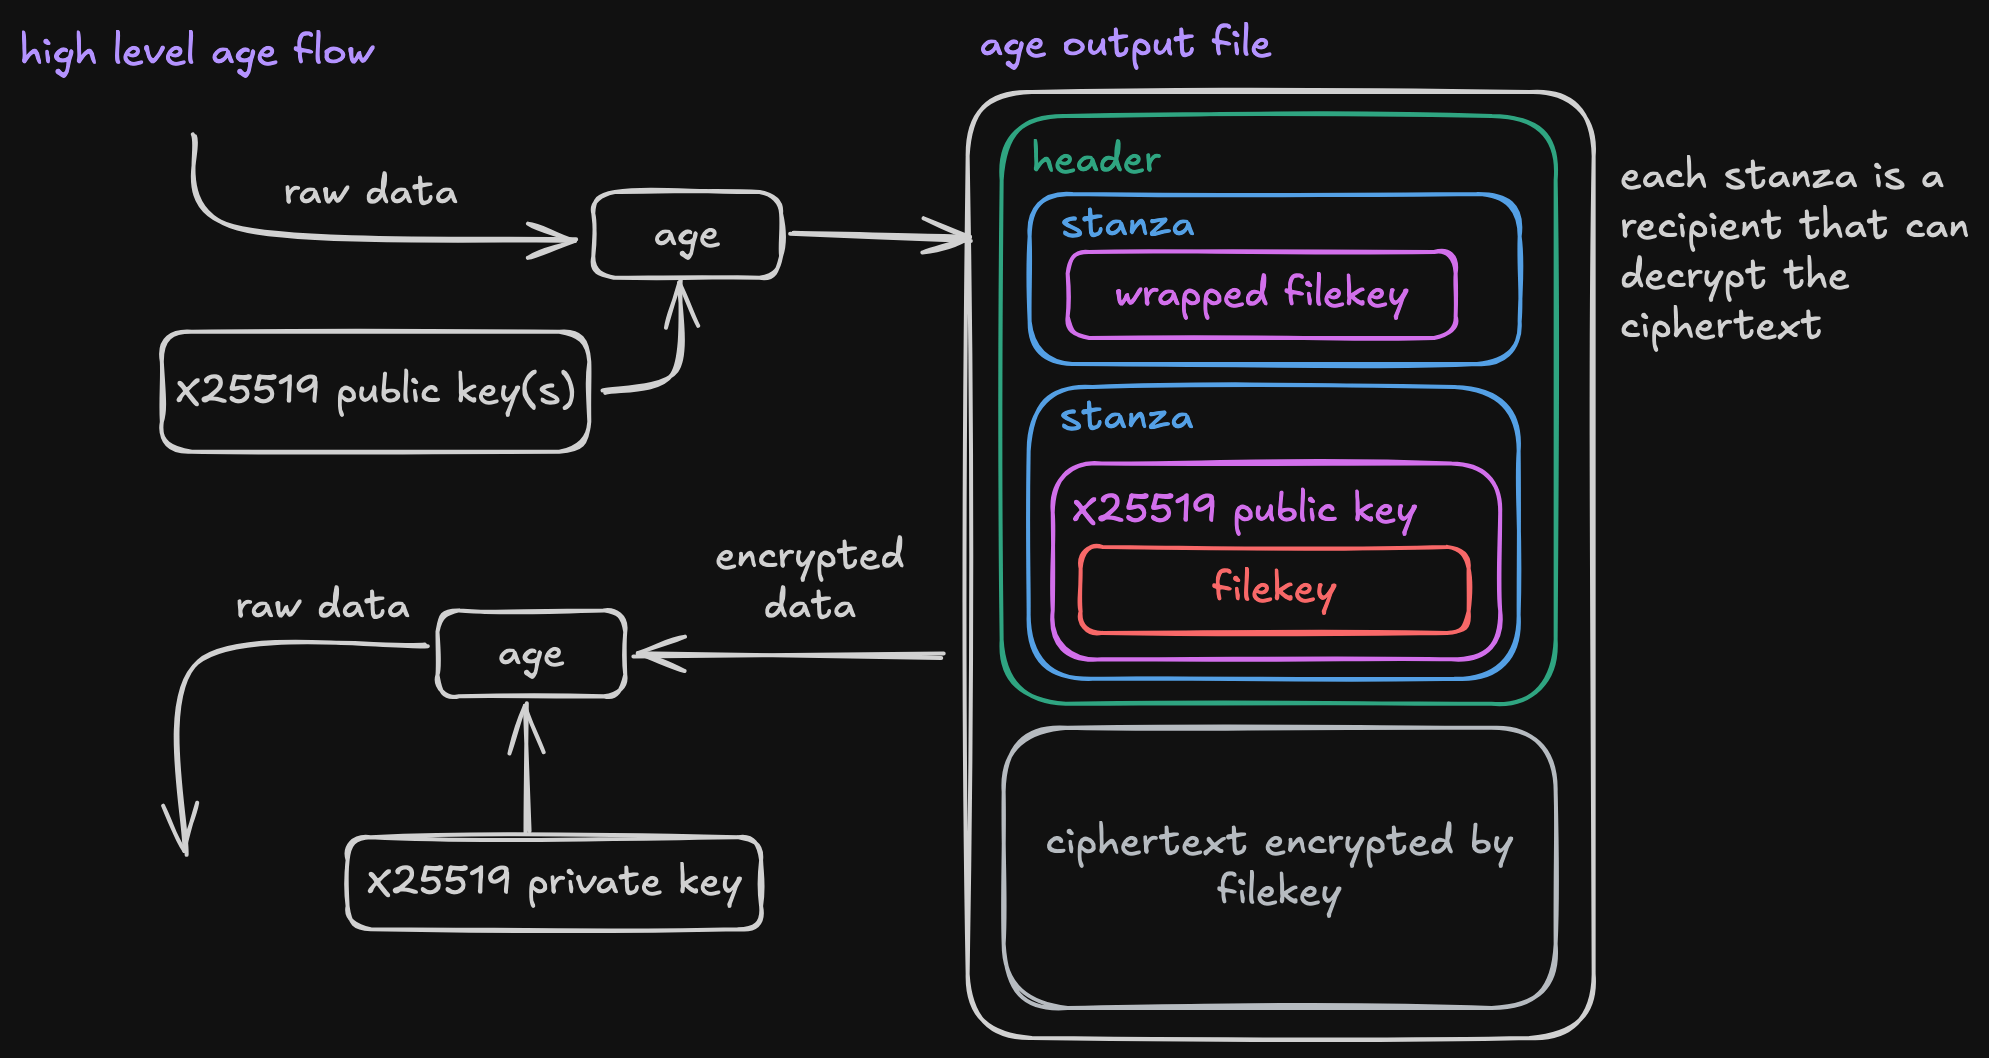
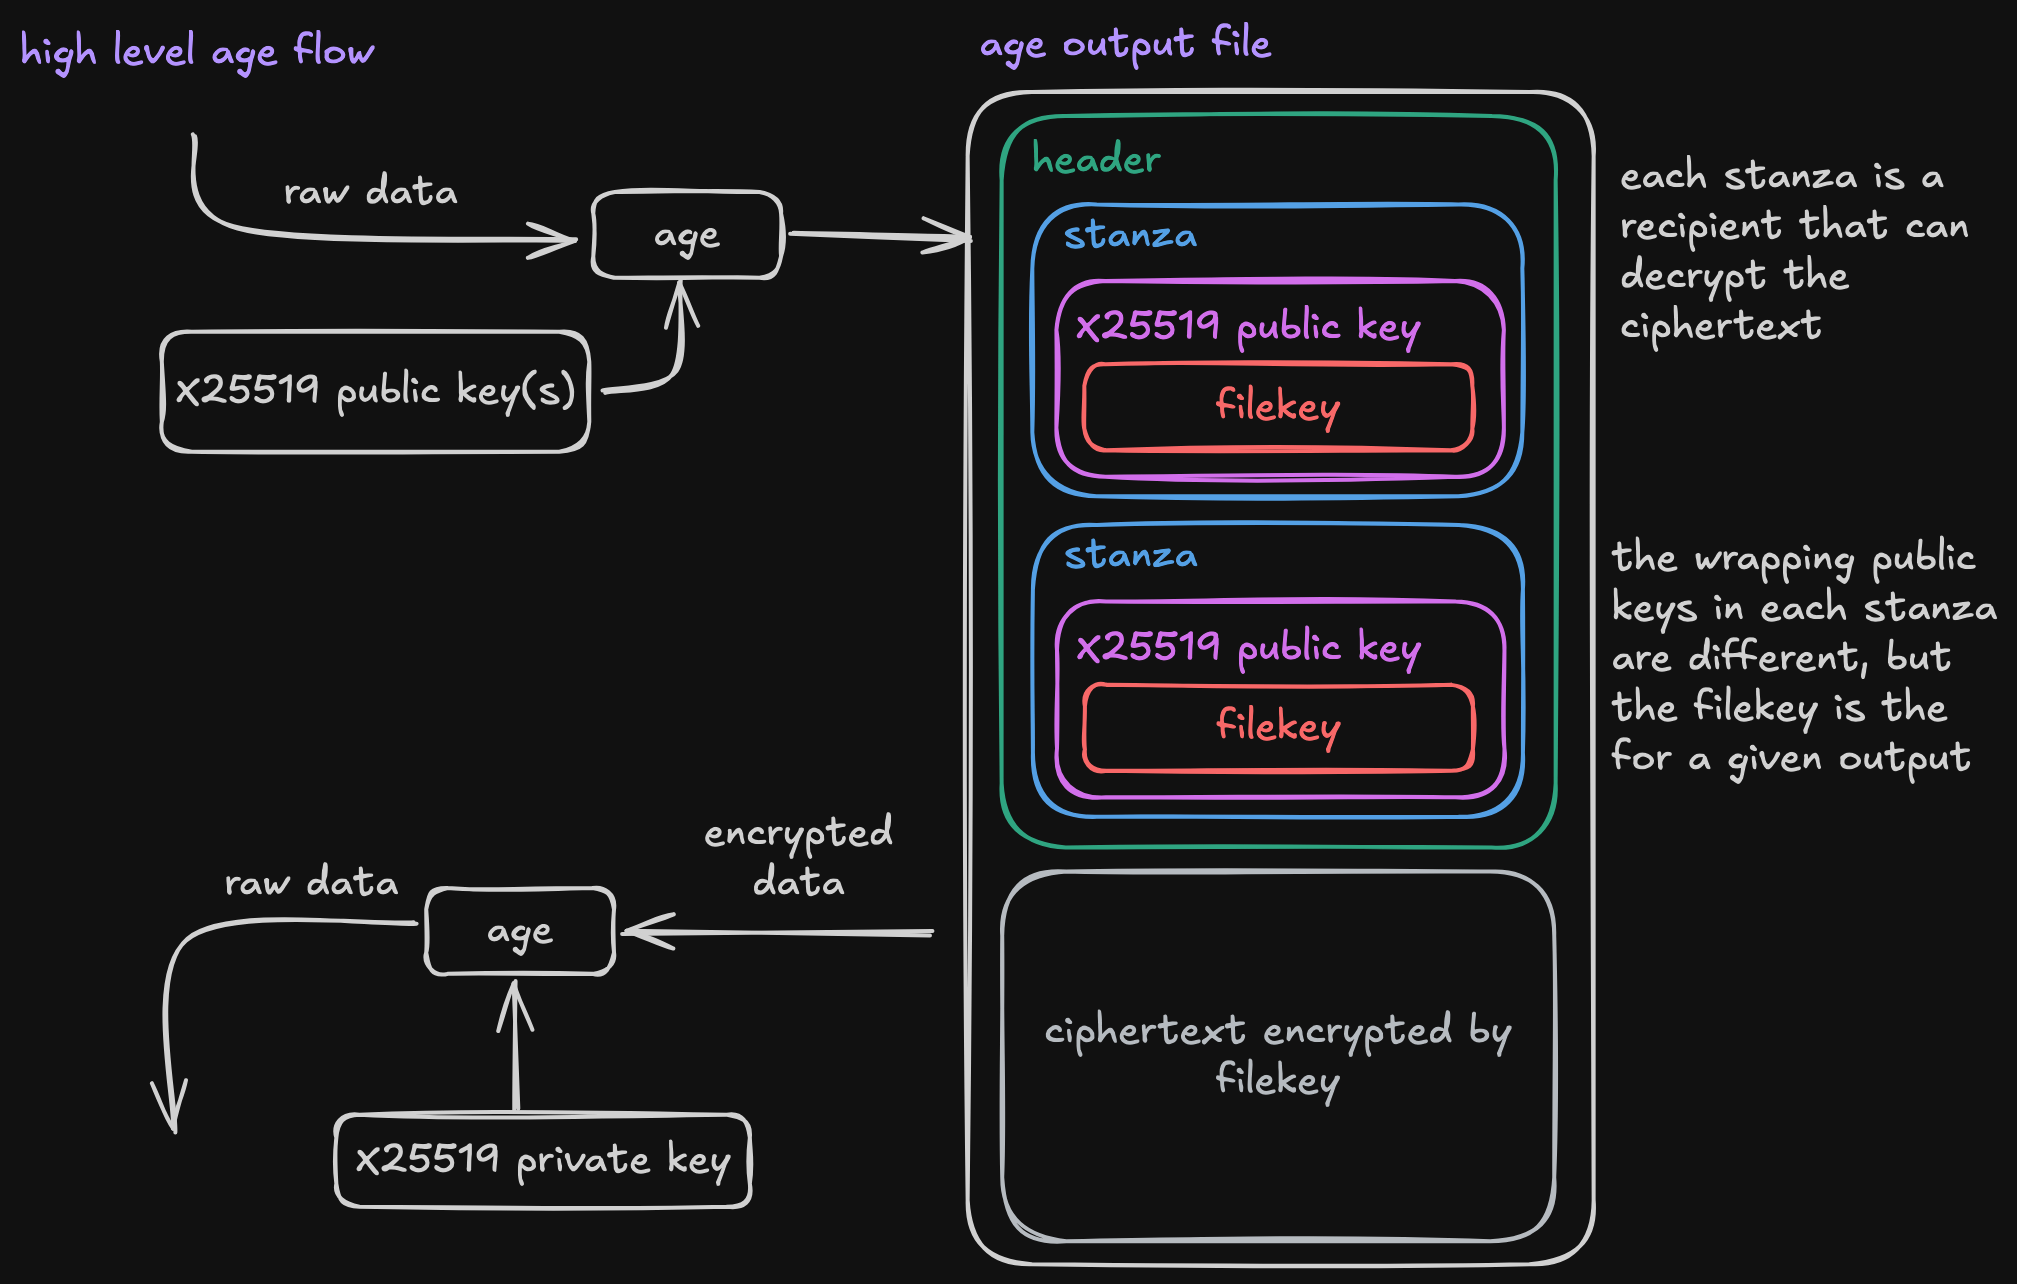
adding missing RPC for uploading encrypted .tar files to auth service, adjusting age diagram, mentioning UX changes in decryption section

Changed region(s): [[0.0623, 0.0, 0.9975, 0.9981], [0.0, 0.0312, 0.187, 0.0624]]

diff --git a/rfd/0127-encrypted-session-recordings.md b/rfd/0127-encrypted-session-recordings.md
@@ -42,7 +42,9 @@ defaults without requiring customization. The formal spec can be found
 [here](https://age-encryption.org/v1). Officially supported key algorithms are
 limited to X25519 (recommended by the spec), Ed25519, and RSA. Support for
 other algorithms would either have to be requested from the upstream or
-manually implemented as a custom plugin.
+manually implemented as a custom plugin. The algorithms employed by `age` are
+not currently compatible with FIPS, which means configuring encrypted sessions
+while in FIPS mode will result in failed startup.
 
 Below is a high level diagram showing how `age` encryption and decryption work:
 ![age diagram](assets/0127-age-high-level.png)
@@ -143,16 +145,49 @@ message SessionRecordingConfigV2 {
 ```proto
 // api/proto/teleport/clusterconfig/v1/clusterconfig_service.proto
 
+// existing messages omitted
+
+message RotateSessionRecordingConfigRequest {}
+message RotateSessionRecordingConfigResponse {}
+
 // ClusterConfigService provides methods to manage cluster configuration resources.
 service ClusterConfigService {
-  // existing messages and RPCs omitted
-
-  message RotateSessionRecordingConfigRequest {}
-  message RotateSessionRecordingConfigResponse {}
+  // existing RPCs omitted
 
   // RotateSessionRecordingConfigKeys rotates the keys associated with encrypting and
   // decrypting session recordings.
   rpc RotateSessionRecordingConfig(RotateSessionRecordingConfigRequest) returns (RotateSessionRecordingConfigResponse);
+}
+```
+
+```proto
+// api/proto/teleport/legacy/client/proto/authservice.proto
+
+// ClusterConfigService provides methods to manage cluster configuration resources.
+service ClusterConfigService {
+  // existing messages omitted
+
+  // EncryptedSessionRecordingChunk is an individual chunk of an encrypted 
+  // session recording .tar file.
+  message EncryptedSessionRecordingChunk {
+    // SessionID the recording relates to.
+    string SessionID = 1;
+    // ChunkIndex is the ordered index applied to the chunk.
+    int64 ChunkIndex = 2;
+    // Chunk is the encrypted chunk of session recording data being uploaded.
+    bytes Chunk = 3;
+  }
+
+  message UploadEncryptedSessionRecordingResponse {}
+
+  service AuthService {
+    // existing RPCs omitted
+
+    // UploadEncryptedSessionRecording is used to upload encrypted .tar files
+    // containing session recording events into long term storage.
+    rpc UploadEncryptedSessionRecording(stream EncryptedSessionRecordingChunk) returns (UploadEncryptedSessionRecordingResponse);
+    
+  }
 }
 ```
 
@@ -186,11 +221,12 @@ writers which incurs a bit of added complexity. However it intentionally avoids
 any sort of intermediate key management which seems a worthwhile tradeoff.
 Because the data is already encrypted, exploding the final `.tar` file back
 into events to be uploaded to the auth service is not possible. Instead the
-auth service must accept a simple binary upload the `.tar` file which it can
-then proxy to long term storage. When using S3 compatible long term storage,
-the auth service will need to use the `PutObject` API rather than performing a
-multipart upload. This is to prevent any loss of parts that would make
-decryption impossible.
+auth service must accept a binary upload of the `.tar` file which it can
+then proxy to long term storage. This will be done using the
+`UploadEncryptedSessionRecording` streaming RPC. When using S3 compatible long
+term storage, the auth service will need to use the `PutObject` API rather than
+performing a multipart upload. This is to prevent any loss of parts that would
+make decryption impossible.
 
 ### Protocols
 
@@ -325,12 +361,14 @@ will be added as recipients.
 ### Decryption and Replay
 
 Because decryption will happen in the auth service before streaming to the
-client, the UX of replaying encrypted recordings is no different from
+client, the UX of replaying encrypted recordings is nearly identical to
 unencrypted recordings. The auth server will find and unwrap its active key in
 the `session_recording_config` using either the key's identifier within the KMS
 or the `host_uuid` attached to HSM derived keys. It will use that key to
 decrypt the data on the fly as it's streamed back to the client. This should be
-compatible with all replay clients, including web.
+compatible with all replay clients, including web. The only change to the
+client UX is that encrypted recording files can not be passed directly to
+`tsh play` because decryption is only possible within the auth service.
 
 If a recording was encrypted with a rotated key, the auth server will also need
 to search the list of rotated keys to find and unwrap the correct key. Public
